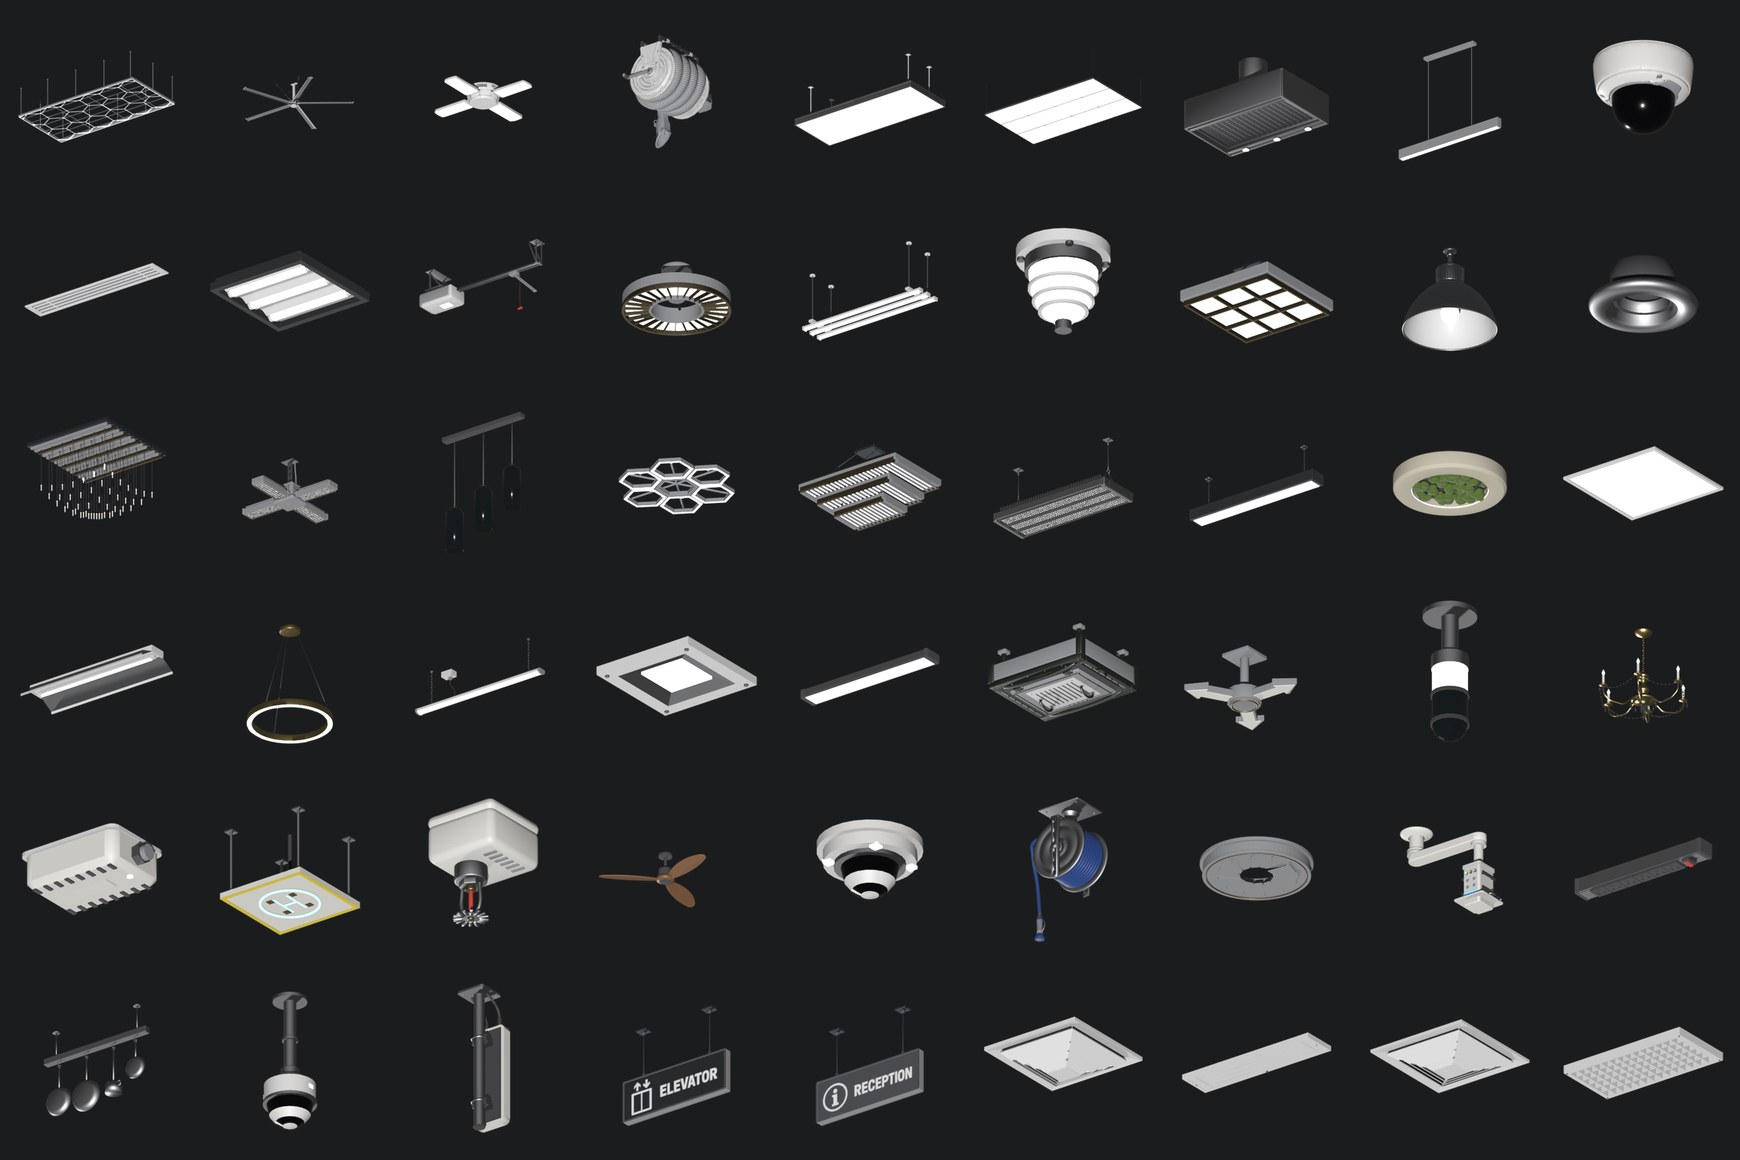
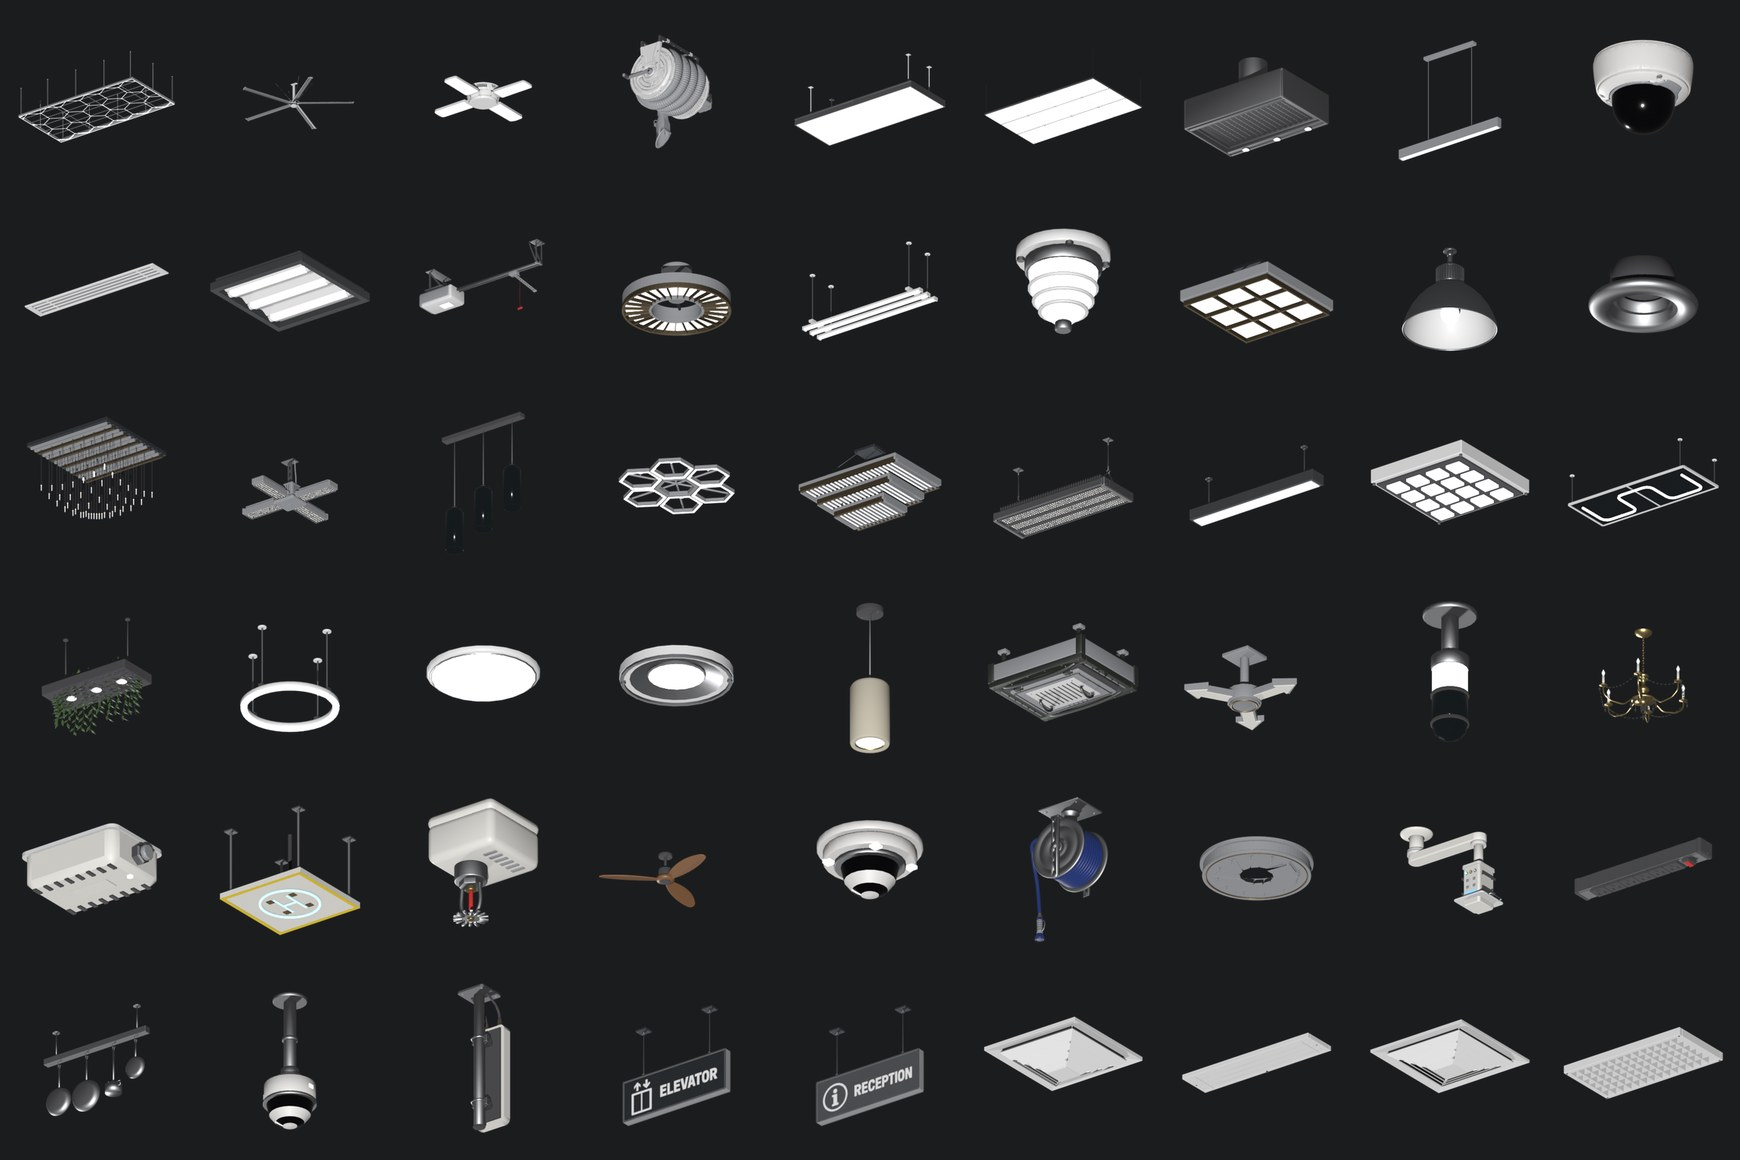
13 presets: Luminous Ceiling and Painted Ceiling, every picture re-rendered with the 1.8 materials

diff --git a/index.html b/index.html
@@ -106,14 +106,14 @@
 <div class="tile shot"><img src="img/hero.jpg" alt="An industrial ceiling made with OVERHEAD: ducts, cable ladders, pipes and their hangers"></div>
 
 <div class="tile stats on-ink">
-  <div><b>11</b><span class="cap">presets</span></div>
+  <div><b>13</b><span class="cap">presets</span></div>
   <div><b>9</b><span class="cap">systems</span></div>
   <div><b>100+</b><span class="cap">fixtures</span></div>
   <div><b>3</b><span class="cap">editions</span></div>
 </div>
 
 <section class="tile on-ink">
-  <h2>11 presets</h2>
+  <h2>13 presets</h2>
   <div class="pics">
     <figure class="wide"><img src="img/preset_industrial.jpg" alt=""><figcaption class="cap"><b>Industrial</b></figcaption></figure>
     <figure><img src="img/preset_warehouse.jpg" alt=""><figcaption class="cap"><b>Warehouse</b></figcaption></figure>
@@ -126,6 +126,8 @@
     <figure><img src="img/preset_office.jpg" alt=""><figcaption class="cap"><b>Office</b></figcaption></figure>
     <figure><img src="img/preset_hospital.jpg" alt=""><figcaption class="cap"><b>Hospital</b></figcaption></figure>
     <figure><img src="img/preset_kitchen.jpg" alt=""><figcaption class="cap"><b>Commercial Kitchen</b></figcaption></figure>
+    <figure><img src="img/preset_luminous.jpg" alt=""><figcaption class="cap"><b>Luminous Ceiling</b></figcaption></figure>
+    <figure><img src="img/preset_painted.jpg" alt=""><figcaption class="cap"><b>Painted Ceiling</b></figcaption></figure>
   </div>
 </section>
 
@@ -185,7 +187,7 @@
 <script>
   // editions: feature, then which of Lite / Standard / Premium have it (the first row shows numbers)
   const rows = [
-    ["Presets", 4, 11, 11],
+    ["Presets", 4, 13, 13],
     ["All 9 systems, live updates", 1, 1, 1],
     ["Fixture library", 1, 1, 1],
     ["Make Editable Copy", 1, 1, 1],
